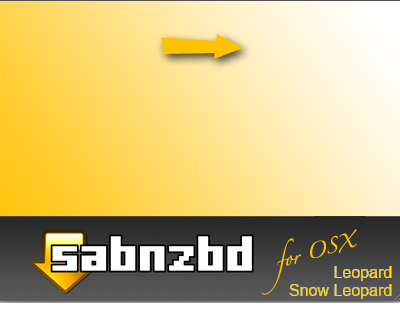
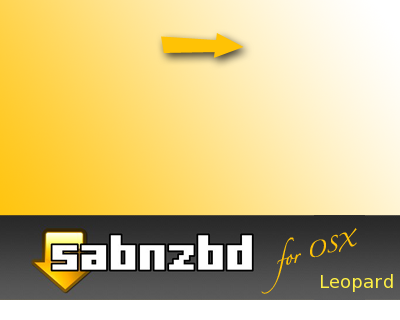
OSX: Generate a SnowLeopard/Lion DMG and a Leopard DMG.

diff --git a/package.py b/package.py
@@ -382,16 +382,18 @@ if target == 'app':
     # Select OSX version specific background image
     # Take care to preserve the special attributes of the background image file
     if [int(n) for n in platform.mac_ver()[0].split('.')] >= [10, 7, 0]:
-        # Lion and higher
-        f = open('osx/image/sabnzbd_lion.png', 'rb')
+        # Lion and higher: generates SnowLeopard/Lion DMG
+        f = open('osx/image/sabnzbd.png', 'rb')
         png = f.read()
         f.close()
-        f = open('/Volumes/SABnzbd/sabnzbd.png', 'wb')
-        f.write(png)
-        f.close()
     else:
-        # Snow Leopard and lower
-        pass
+        # Snow Leopard and lower: generates Leopard DMG
+        f = open('osx/image/sabnzbd_leopard.png', 'rb')
+        png = f.read()
+        f.close()
+    f = open('/Volumes/SABnzbd/sabnzbd.png', 'wb')
+    f.write(png)
+    f.close()
 
     # Rename the volume
     fp = open('mount.log', 'r')
